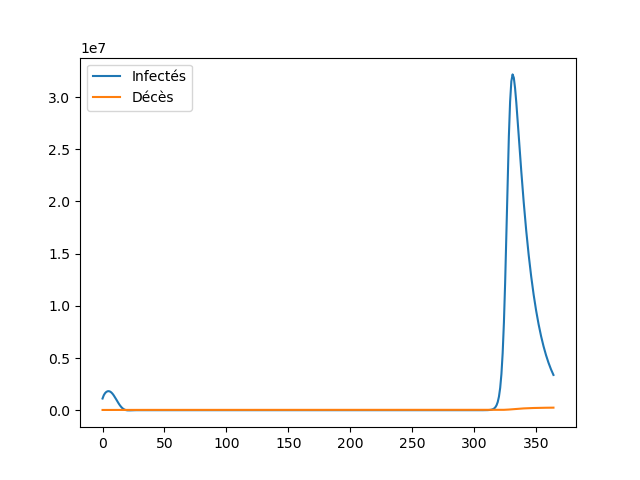
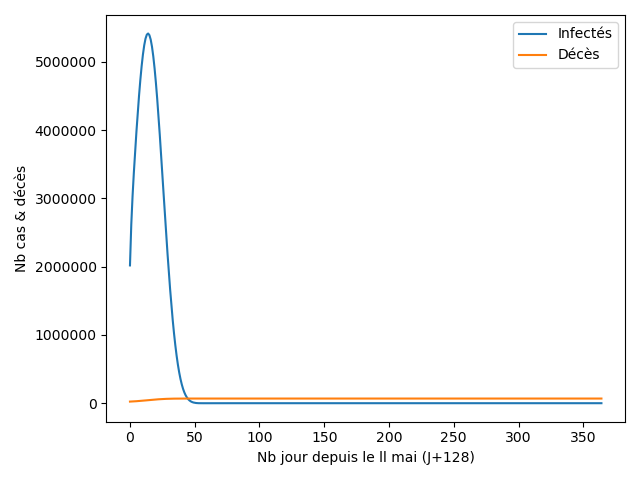
typing

diff --git a/scire.py b/scire.py
@@ -134,13 +134,14 @@ if __name__ == '__main__':
     # Déconfinement
     DC128 = 23000
     R128 = 180000
-    detectionrate = 0.5 # 1 0.5 0.1
-    C0 = ((DC128 / mu) - R128) / nbfrench * detectionrate
+    rrate = 0.1
+    C0 = ((DC128 / mu) - R128) / nbfrench * rrate
     I0 = C0 / notdetectedrate # Taux Infection
     S0 = 1 - I0 - C0  # Taux Sain
-    fsummer = lambda x : -np.sin((x + 118 - 365 / 4 - 30) * 2 * np.pi / 365) * R0 / 2
+    r0 = R0 * 0.5 * rrate
+    fsummer = lambda x : -np.sin((x + 118 - 365 / 4 - 30) * 2 * np.pi / 365) * r0 / 1 # 1,2,4
     print(fsummer(np.arange(365)))
-    scire = SCIRE(S0, C0, I0, r0=R0 * detectionrate,v=v,lmbda=lmbda,mu=mu,dr=0.01,fs = fsummer) #0.1 0.01
+    scire = SCIRE(S0, C0, I0, r0=R0 * rrate, v=v, lmbda=lmbda, mu=mu, dr=0.1, fs = fsummer) #0.1
     scires = scire.compute(365)
     ctot = 1 - np.array([x.S for x in scires])
     c = np.array([x.C for x in scires])
@@ -148,6 +149,9 @@ if __name__ == '__main__':
     dc = np.array([x.DC for x in scires]) + DC128 / nbfrench
     plt.plot(i * nbfrench, label="Infectés")
     plt.plot(dc * nbfrench, label="Décès")
+    plt.xlabel("Nb jour depuis le ll mai (J+128)")
+    plt.ylabel("Nb cas & décès")
     plt.legend()
+    plt.tight_layout()
     plt.show()
 

diff --git a/readme.md b/readme.md
@@ -8,32 +8,32 @@
 <img src="data/scir.png"><img src="https://scikit-learn.org/stable/_static/scikit-learn-logo-small.png"><img src="https://www.python.org/static/img/python-logo@2x.png">
 <h2>Etude 3: Le déconfinement</h2>
 <p>Au déconfinement, le 11 mai (J128), je propose 4 scénarios, pour cela j'ai modifié SCIRE pour ajouter un taux de détection des individus infectés et une fonction d'atténuation sinusoidale dû à l'été R = R * DetectionRate * sin(2xpi/365)
-<p>Scénario Marseillais optimiste: Comme le SRAS et comme le propose le professeur Raoult, le virus disparait, R = R0 * 0.1 - sin(t) * R0 / 2 ~= 0
+<p>Scénario Marseillais optimiste: Comme le SRAS et comme le propose le professeur Raoult, le virus disparait, R = R0 * 0.5 * 0.1 - sin(t) * r ~= [0:0.2]
     <ul>
-        <li>Le modèle SCIRE prévoit un petit pic à J+5 et une extinction du virus à J+50</li>
+        <li>Le modèle SCIRE prévoit un petit pic à J+5 et une extinction du virus début Juin</li>
         <li>Le modèle ML prévoit un extinction en Mai</li>
         <li>24000 décès au total</li>
     </ul>
     <img src="data/figured1.png">
-<p>Scénario Milanais pessimiste: le confinement est un échec, R=R0, peu probable car ne se produit pas ailleurs dans le monde
+<p>Scénario Mulhousain pessimiste: le confinement est un échec, R=R0
     <ul>
-        <li>Un énorme pic d'infection à J+10</li>
+        <li>Un énorme pic d'infection à J+6</li>
         <li>Reconfinement</li>
     </ul>
     <img src="data/figured2.png"><img src="data/figureml.png">
-<p>Scénario Grenoblois médian: les mesures de protection fonctionnent avec 90% de détection, isolement des patients infectés, protections, un été protecteur, R = R0 * 0.1 - sin(t) * R0 / 2 ~= [0:0.5]
+<p>Scénario Grenoblois médian: les mesures de protection fonctionnent avec 50% de détection, isolement des patients infectés, protections, un été protecteur, baisse du R de 0.1 tous les 15 jours, R = R0 * 0.5 * 0.5 - fsin(t) / 2 ~= [0.4:0.8]
     <ul>
-        <li>Un petit pic en mai, puis un été clément</li>
-        <li>Normalement pas de seconde vague si R continue à baisser, grosse incertitude pour l'automne</li>
+        <li>Un pic à J+5, puis une disparition du virus en Juin</li>
+        <li>Pas de seconde vague si R continue à baisser avec une grosse incertitude</li>
     </ul>
     <img src="data/figured3.png">
-<p>Scénario Parisien médian-pessimiste : les mesures de détection fonctionnent moyennement à 50%, le reste fonctionne bien et l'été fait son travail, R=R0*0.5*0.5=0.83
+<p>Scénario Parisien médian-pessimiste : les mesures de détection fonctionnent moyennement à 50% des symptomatiques soit 10% de détection totale, le reste fonctionne bien et l'été fait son travail, baisse du R de 0.05 tous les 15 jours, R = R0 * 0.5 * 0.1 - fsin(t) / 4 ~= [1.6:2.2]
     <ul>
-        <li>Un second pic en mai et un été tranquille</li>
-        <li>D'après le modèle ML un pic à l'automne, d'après SCIRE un énorme pic au printemps 2021</li>
-        <li>40000 décès à la fin de l'été</li>
+        <li>Un gros pric à J+15 à la limite du confinement et un été tranquille</li>
+        <li>70000 décès</li>
+        <li>D'après le modèle ML un pic à l'automne, d'après SCIRE pas de second pic, mais une petite variation de la fonction de saisonalité fait apparaitre un énorme pic au printemps 2021</li>
     </ul>
-    <img src="data/figured4.png">
+    <img src="data/figured4.png"><img src="data/figured42.png">
 <p>La moindre variation du paramètre R peut complètement modifier l'évolution de l'épidémie, le ML ne possède pas assez données pour être fiable, il faut donc rester modeste</p>
 <p>Conclusion générale : les modèles sont très incertains, une boule de cristal ferait aussi bien, le paramètre R reflète l'interaction entre les personnes, le confinement l'a diminué d'un facteur 7, d'autres mesures comme les protections et les détections massives arrivent à un résultat proche, en mai un petit pic va avoir lieu mais avec un peu de chance l'épidémie va vite refluée si les moyens de détection fonctionnent et sont massifs, le risque de 2ème vague à l'automne est très fort mais peu quantifiable pour le moment.</p>
 <p>Comme le montre le sud de la France et l'Afrique, les temps ensoleillés, secs et chauds semblent diminuer fortement R, donc soyons optimiste</p>
